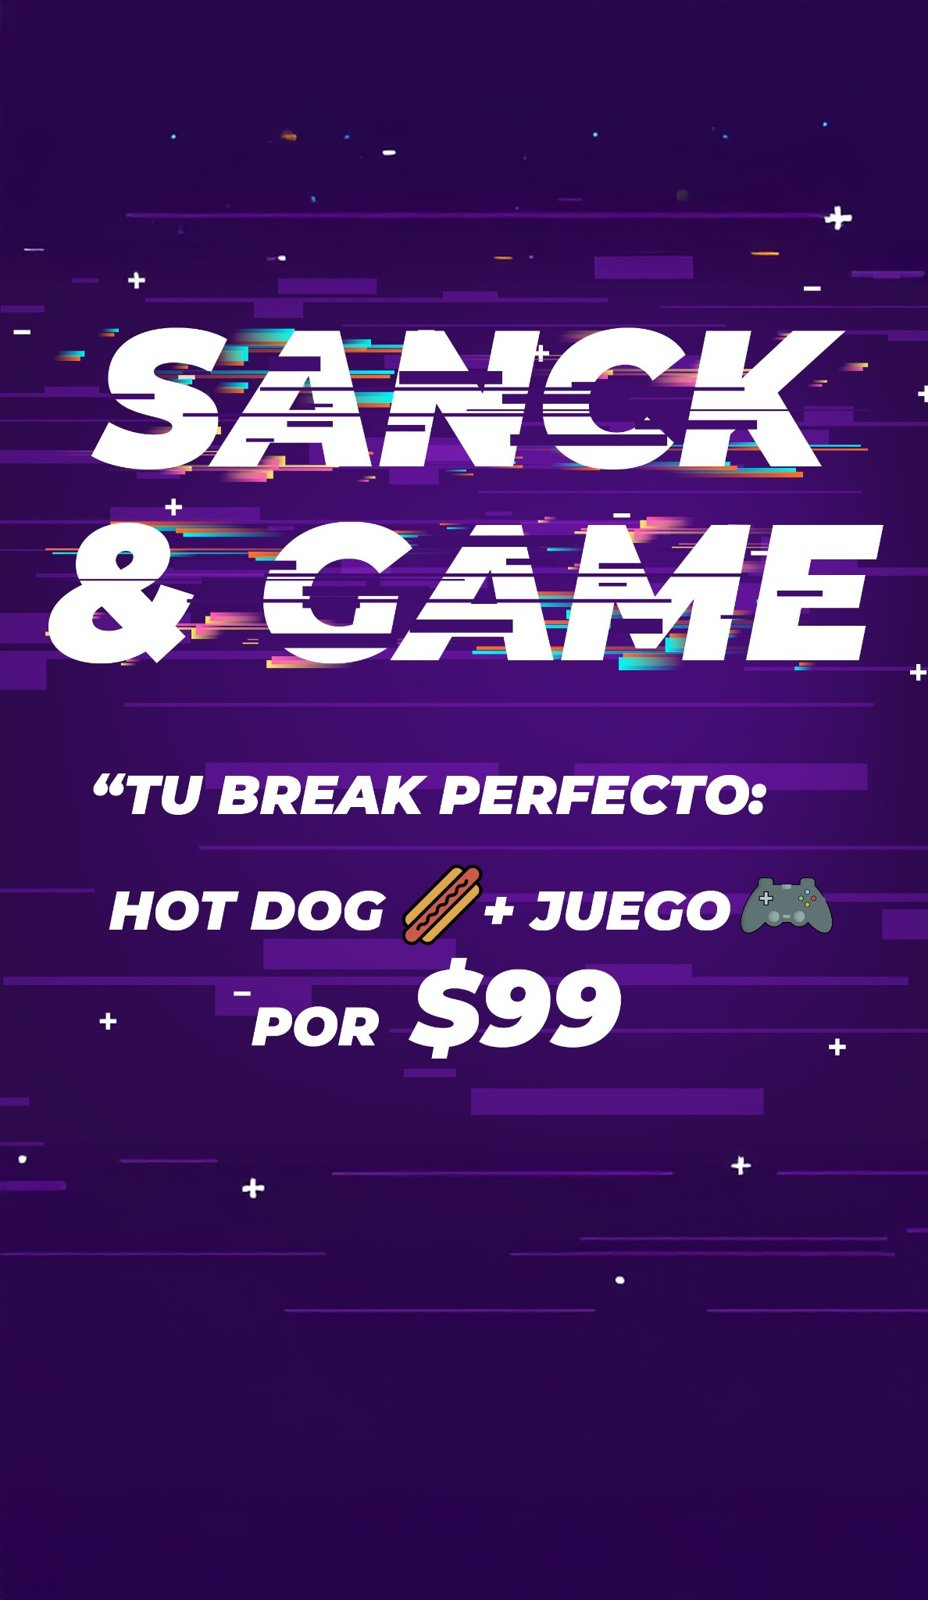
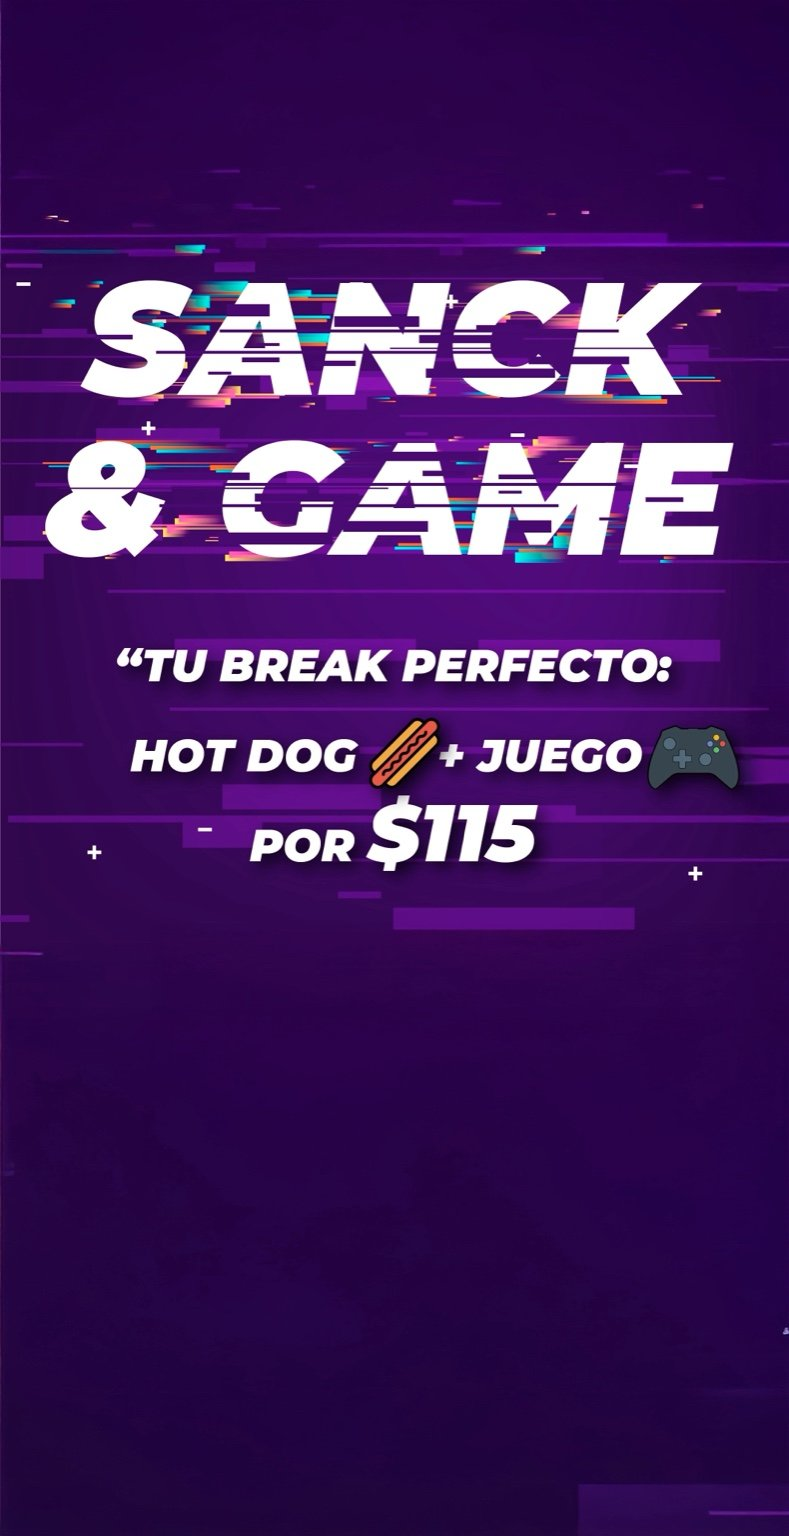
Add files via upload

diff --git a/index.html b/index.html
@@ -4,47 +4,19 @@
   <meta charset="utf-8" />
   <meta name="viewport" content="width=device-width, initial-scale=1" />
   <title>Snack & Game • Arena The Place to Play</title>
-  <meta name="description" content="Locatarios de TownSquare Metepec: hot dog + tiempo de juego por $99. Escanea y disfruta tu break gamer." />
+  <meta name="description" content="Locatarios de TownSquare Metepec: hot dog + tiempo de juego por $115. Escanea y disfruta tu break gamer." />
   <meta name="theme-color" content="#6a0dad" />
-  <meta property="og:title" content="Snack & Game • Arena The Place to Play" />
-  <meta property="og:description" content="Locatarios de TownSquare Metepec: hot dog + tiempo de juego por $99." />
-  <meta property="og:image" content="promo.jpg" />
-  <meta property="og:type" content="website" />
   <style>
-    :root {
-      --bg1:#1a002b; --bg2:#2a0044; --txt:#fff; --muted:#d0c4e0;
-      --brand1:#a347ff; --brand2:#ff2ef2; --brand3:#ffc300;
-      --card:#1b0033; --border:#3a0055; --radius:20px;
-      --wa:#25D366;
-    }
-    * { box-sizing:border-box; }
-    html, body { margin:0; padding:0; background: linear-gradient(160deg, var(--bg1), var(--bg2)); color:var(--txt); font-family: system-ui, -apple-system, Segoe UI, Roboto, Helvetica, Arial; }
+    body { background:#1a002b; color:#fff; font-family:Arial, sans-serif; margin:0; }
     .wrap { max-width:960px; margin:0 auto; padding:24px; }
-    .card { background: rgba(0,0,0,0.4); border:1px solid var(--border); border-radius:var(--radius); padding:24px; box-shadow:0 10px 30px rgba(0,0,0,.6); }
-    header { display:flex; align-items:center; gap:16px; flex-wrap:wrap; }
-    header img.logo { height:56px; width:auto; border-radius:12px; }
-    h1 { font-size: clamp(28px, 3vw, 40px); margin:0; line-height:1.1; color:#fff; }
-    .sub { color:var(--muted); margin-top:6px; }
-    .hero { display:grid; grid-template-columns: 1.2fr 1fr; gap:20px; margin-top:24px; }
-    @media (max-width:860px) { .hero { grid-template-columns:1fr; } }
-    .preview { background:#000; border-radius:16px; border:1px solid var(--border); overflow:hidden; display:flex; align-items:center; justify-content:center; min-height:320px; }
-    .preview img { width:100%; height:auto; display:block; object-fit:contain; }
-    .panel { display:flex; flex-direction:column; gap:16px; }
-    .price { font-size:clamp(28px, 4vw, 48px); font-weight:800; background:linear-gradient(90deg, var(--brand1), var(--brand2)); -webkit-background-clip:text; background-clip:text; color:transparent; }
-    .cta { display:flex; flex-wrap:wrap; gap:10px; }
-    .btn { appearance:none; border:none; padding:14px 18px; border-radius:14px; font-weight:700; cursor:pointer; transition: transform .08s ease, box-shadow .2s ease, background .2s; }
-    .btn:active { transform: translateY(1px); }
-    .btn-primary { background: linear-gradient(90deg, var(--brand1), var(--brand2)); color:#fff; box-shadow: 0 8px 20px rgba(0,0,0,.3); text-decoration:none; display:inline-block; }
-    .btn-ghost { background: transparent; color:#fff; border:1px solid var(--border); text-decoration:none; display:inline-block; }
-    .tnc { margin-top:8px; }
-    details { background:#2a0044; border:1px solid var(--border); border-radius:14px; padding:14px 16px; }
-    details summary { cursor:pointer; font-weight:700; }
-    footer { margin-top:24px; color:var(--muted); font-size:14px; display:flex; justify-content:space-between; gap:10px; flex-wrap:wrap; }
-
-    /* WhatsApp floating button */
+    .card { background:rgba(0,0,0,0.4); padding:24px; border-radius:20px; }
+    footer { margin-top:24px; color:#cfcfcf; font-size:14px; text-align:center; }
+    .preview img { max-width:100%; border-radius:12px; }
+    .tnc details { background:#2a0044; border:1px solid #3a0055; border-radius:14px; padding:14px 16px; margin-top:16px; }
+    .tnc summary { cursor:pointer; font-weight:700; }
     .wa-fab {
       position: fixed; right: 18px; bottom: 18px;
-      background: var(--wa); color:#fff; border-radius:999px;
+      background: #25D366; color:#fff; border-radius:999px;
       width: 58px; height: 58px; display:flex; align-items:center; justify-content:center;
       box-shadow: 0 10px 20px rgba(0,0,0,.35); text-decoration:none; font-size:28px;
     }
@@ -56,39 +28,20 @@
 <body>
   <div class="wrap">
     <div class="card">
-      <header>
-        
-        <div>
-          <h1>Snack &amp; Game</h1>
-          <div class="sub">Locatarios de TownSquare Metepec • Versus Zone &amp; Next Level</div>
-        </div>
-      </header>
-
-      <div class="hero">
-        <div class="preview">
-          <img src="promo.jpg" alt="Imagen de la promoción Snack &amp; Game" loading="lazy" />
-        </div>
-        <div class="panel">
-          <div class="price">$99 MXN</div>
-          <div style="display:grid; grid-template-columns:1fr 1fr; gap:12px;">
-            <div style="padding:6px 10px; border-radius:999px; background:#151515; border:1px solid var(--border);">🌭 Hot dog</div>
-            <div style="padding:6px 10px; border-radius:999px; background:#151515; border:1px solid var(--border);">🎮 Tiempo de juego</div>
-          </div>
-
-          <div class="cta">
-            <a class="btn btn-primary" href="promo.jpg" target="_blank" rel="noopener">Ver imagen</a>
-            <a class="btn btn-ghost" href="promo.jpg" download="SnackAndGame.jpg">Descargar</a>
-          </div>
-
-          <div class="tnc">
-            <details open>
-              <summary>Ver términos y condiciones</summary>
-              
+      <h1>Snack & Game</h1>
+      <p>Locatarios de TownSquare Metepec • Versus Zone & Next Level</p>
+      <div class="preview">
+        <img src="promo.jpg" alt="Promo Snack & Game" />
+      </div>
+      <div class="tnc">
+        <details open>
+          <summary>Ver términos y condiciones</summary>
+          
 <h3>Términos y condiciones</h3>
 <ul>
   <li>Promoción válida únicamente para locatarios de TownSquare Metepec.</li>
   <li>Es necesario presentar identificación laboral, gafete o uniforme que compruebe que trabajas en la plaza.</li>
-  <li>Precio único: $99 MXN por combo de hot dog + tiempo de juego.</li>
+  <li>Precio único: $115 MXN por combo de hot dog + tiempo de juego.</li>
   <li>Tiempo de juego válido en:</li>
   <ul>
     <li>Versus Zone</li>
@@ -100,22 +53,14 @@
   <li>Arena The Place to Play se reserva el derecho de modificar o finalizar la promoción sin previo aviso.</li>
 </ul>
 
-            </details>
-          </div>
-        </div>
+        </details>
       </div>
-
       <footer>
         <div>© 2025 Arena The Place to Play</div>
-        <div>Hecho para compartir rápido — sin necesidad de apps.</div>
       </footer>
     </div>
   </div>
-
-  <!-- WhatsApp FAB -->
-  <a class="wa-fab" href="https://wa.me/527294900879?text=Hola%20Arena%20The%20Place%20to%20Play,%20soy%20locatario%20de%20TownSquare%20Metepec%20y%20quiero%20aprovechar%20la%20promo%20Snack%20%26%20Game." target="_blank" rel="noopener" aria-label="WhatsApp">
-    💬
-  </a>
+  <a class="wa-fab" href="https://wa.me/527294900879?text=Hola%20Arena%20The%20Place%20to%20Play,%20soy%20locatario%20de%20TownSquare%20Metepec%20y%20quiero%20aprovechar%20la%20promo%20Snack%20%26%20Game." target="_blank" rel="noopener">💬</a>
   <div class="wa-label">¿Dudas? Escríbenos</div>
 </body>
 </html>
